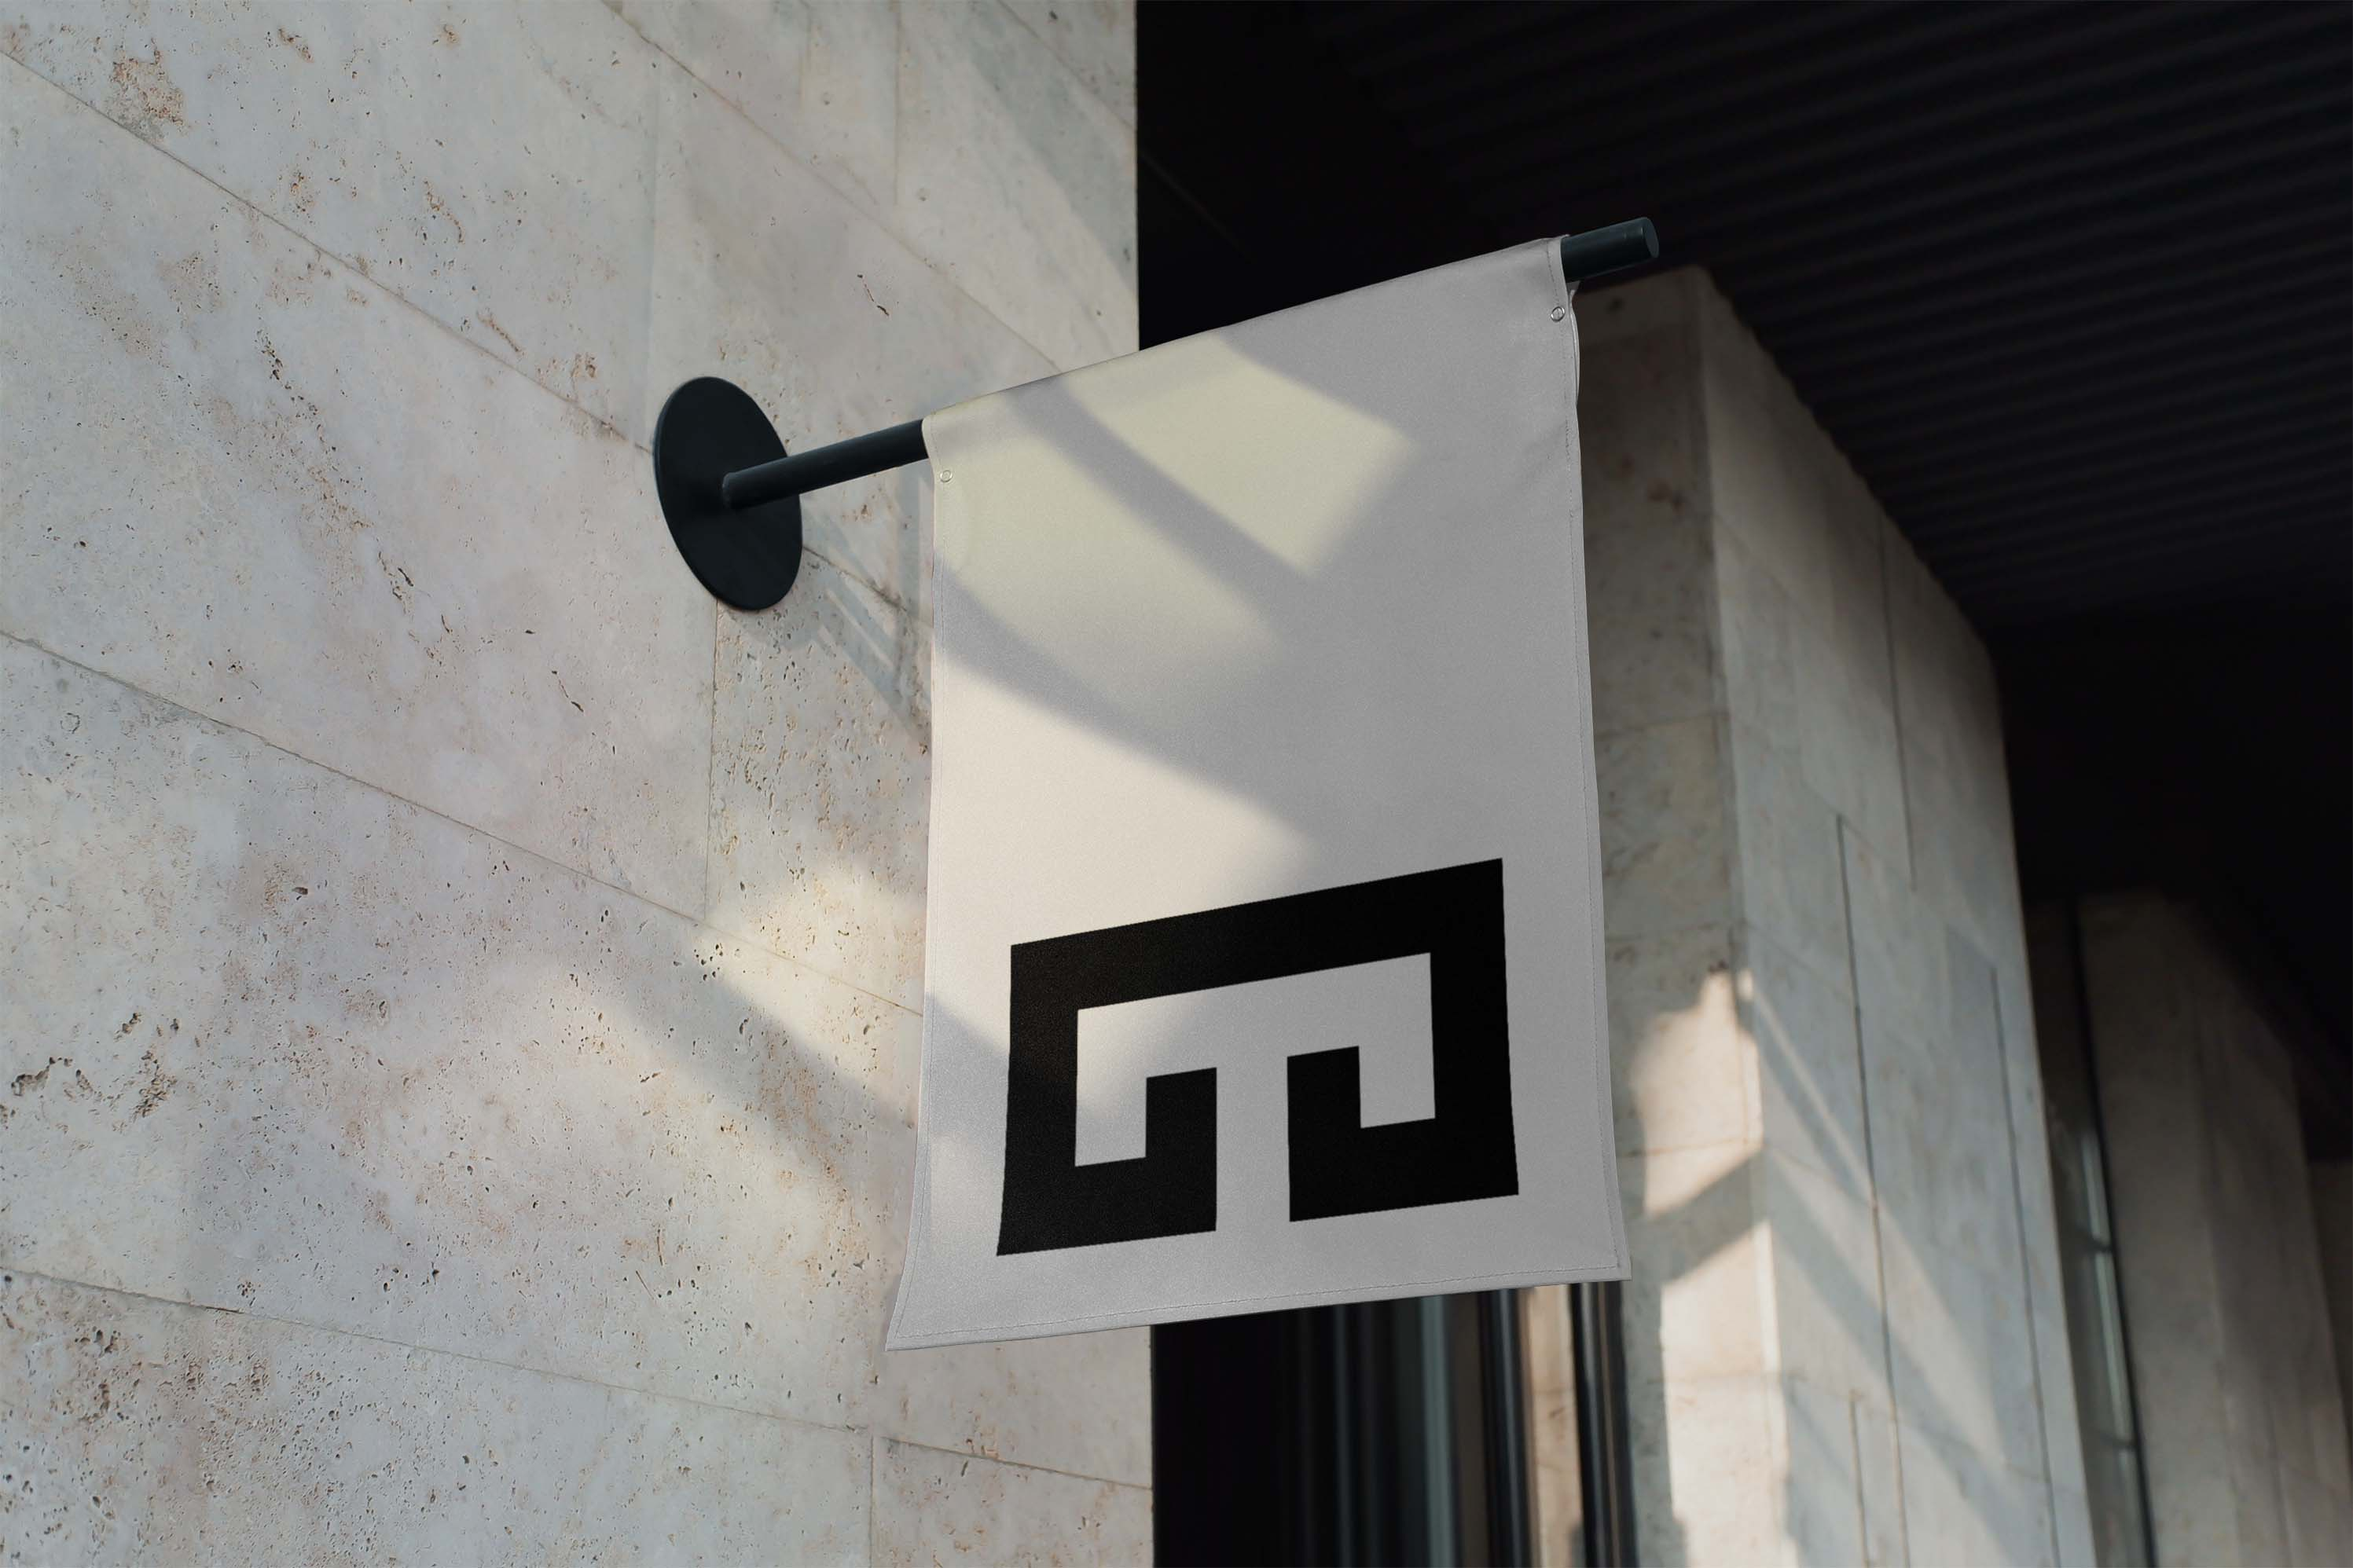
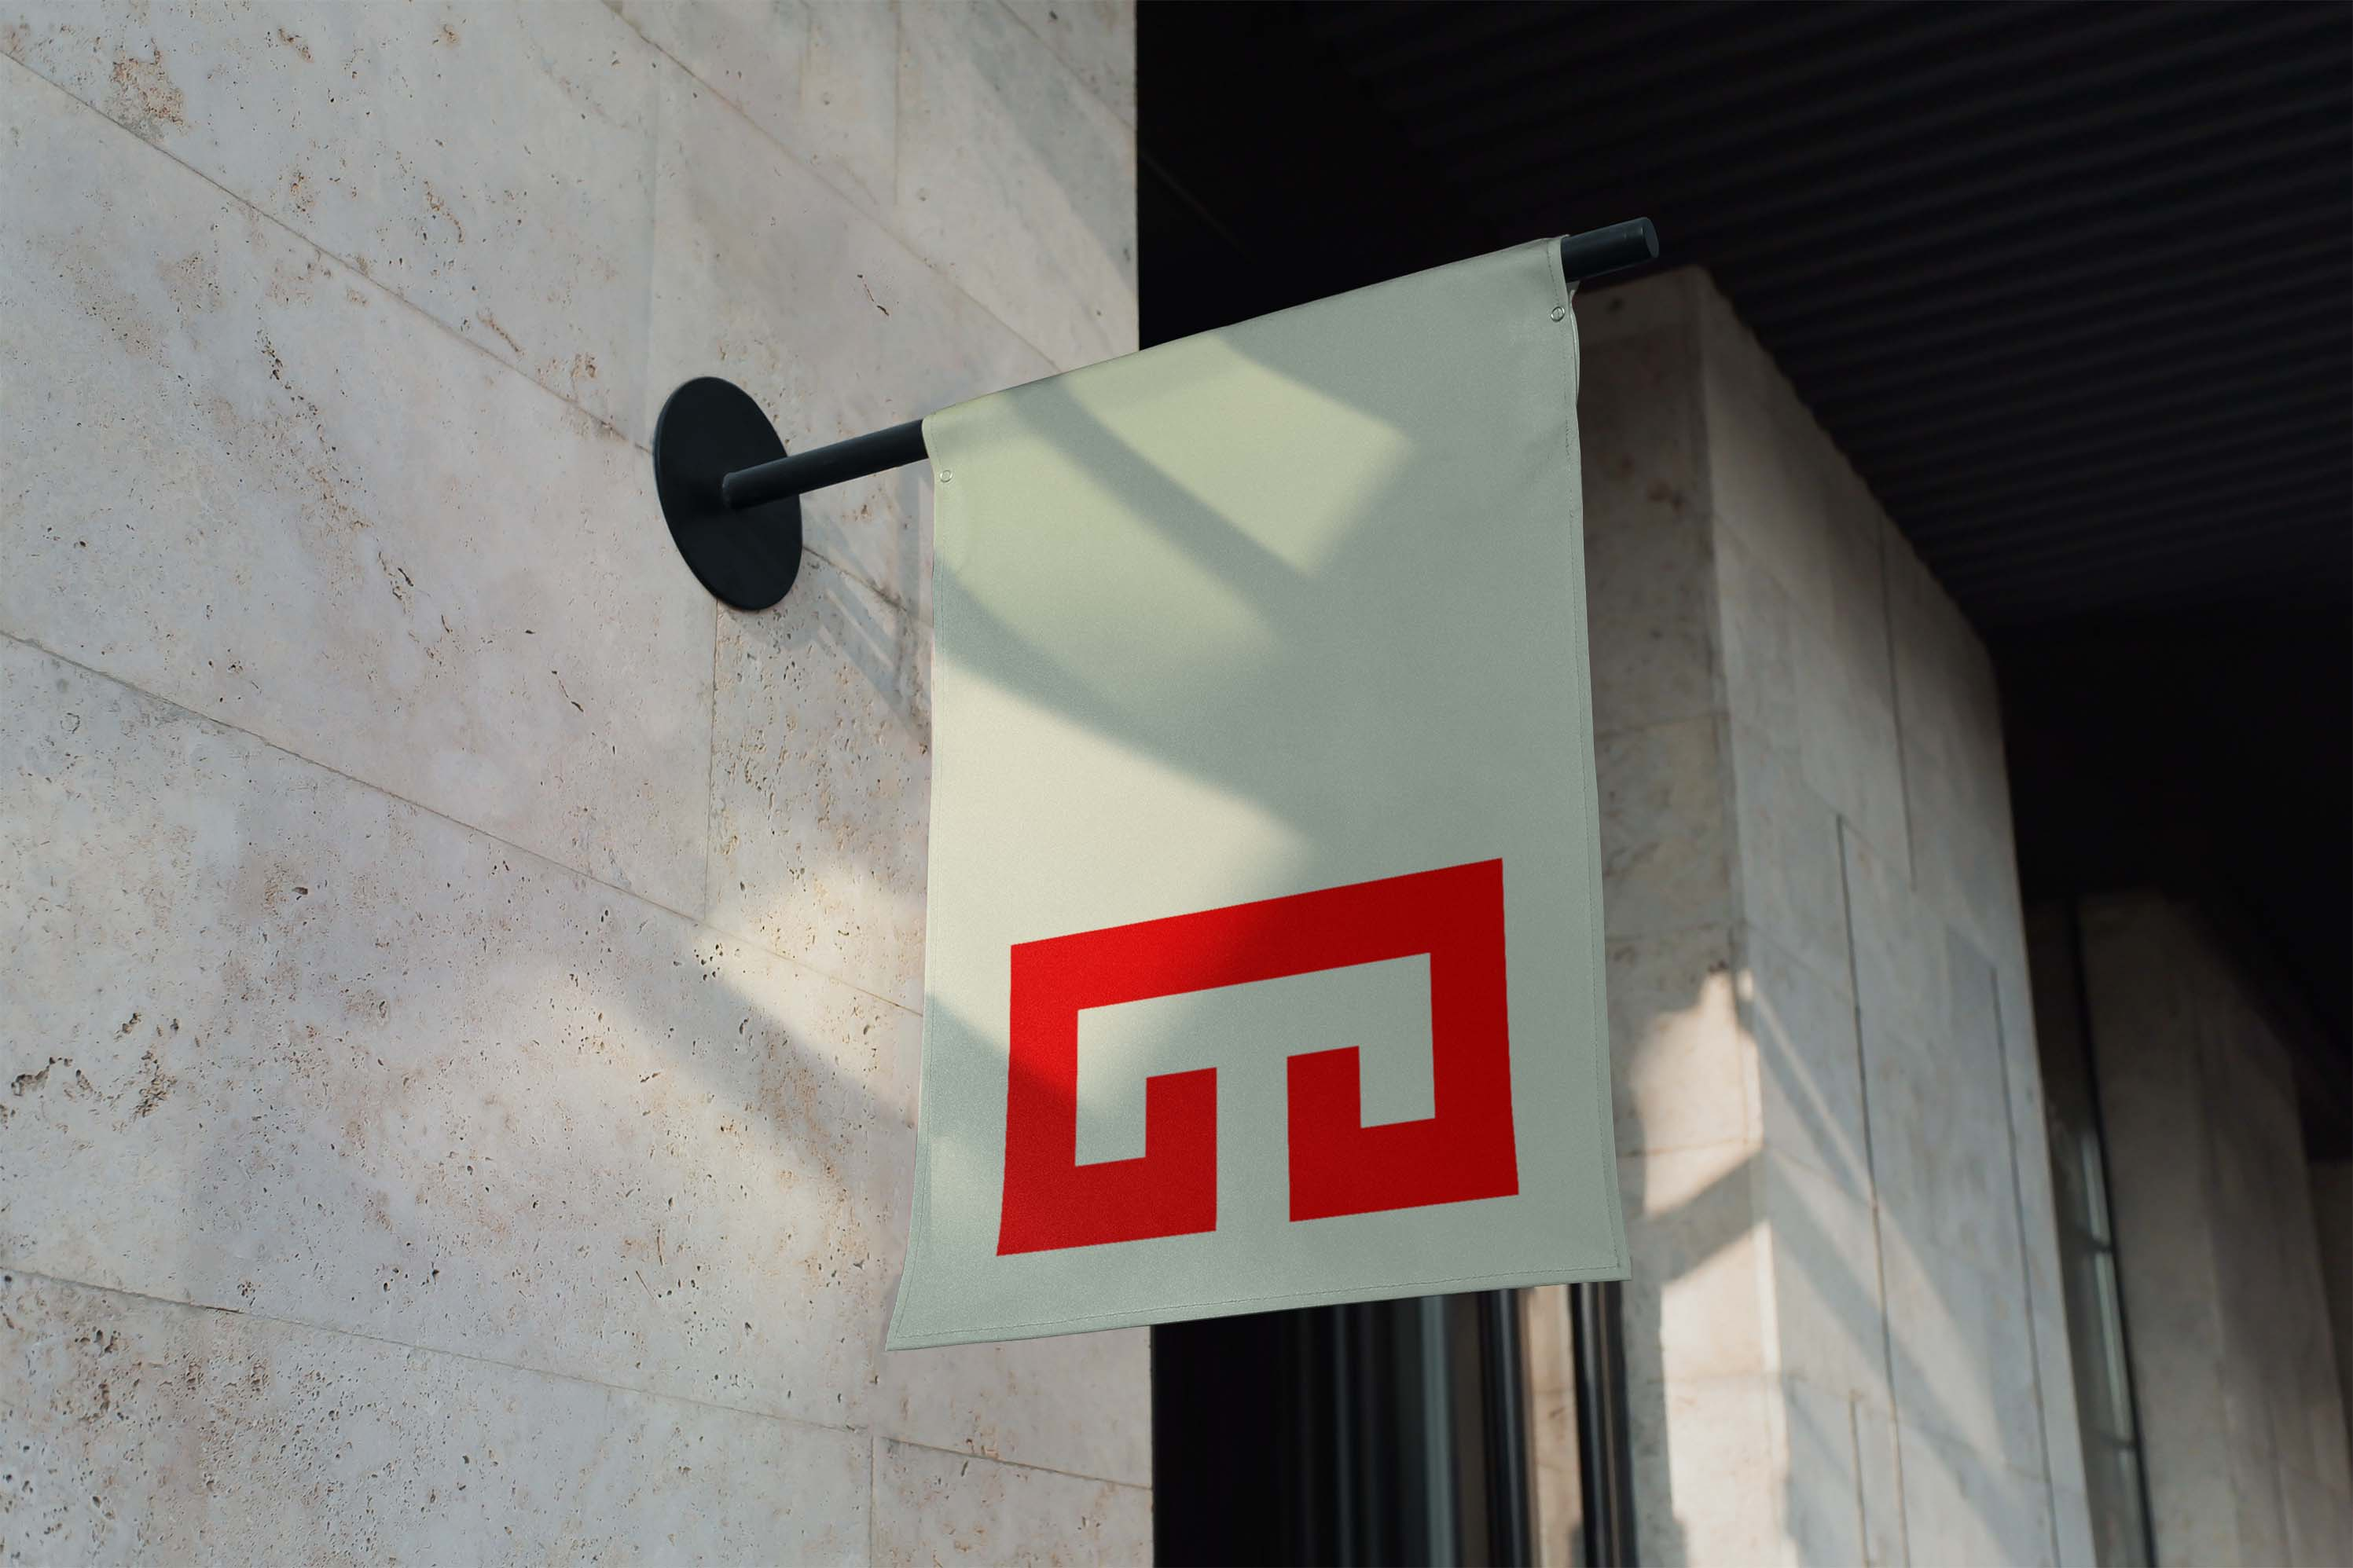
Continuing to edit and add to Gutenberg.

Changed region(s): [[0.4038, 0.5281, 0.6523, 0.8076]]

diff --git a/project/gutenberg.html b/project/gutenberg.html
@@ -3,7 +3,7 @@
 <html lang = "en">
     
     <head>
-        <title>GUTENBERG, WORK IN PROGRESS</title>
+        <title>WORK IN PROGRESS</title>
 
         <!-- Page Logo, Favicon -->
         <link rel = "stylesheet" type = "image/x-icon" href = "favicon.ico">
@@ -19,19 +19,25 @@
     <body>
         <main>
             <div class = "projectContainer">
-                <img src = "../assets/imgs/comm/Gutenberg/060924_wayfindingIndoorBanner_01.jpg" alt="" class = "wide">
-                <h4 class = "wide">Griot Book Club Banner</h4>
+                <img src = "../assets/imgs/comm/Gutenberg/060924_wayfindingOutdoorBanner_01.jpg" alt = "" class = "wide">
+                <img src = "../assets/imgs/comm/Gutenberg/060924_wayfindingIndoorBanner_01.jpg" alt = "" class = "wide">
+                <h4 class = "wide">Griot Book Club</h4>
 
-                <!-- <img src = "../assets/imgs/comm/Gutenberg/_logotypeTransformation.png" alt = "" class = "wide">
-                <h4 class = "wide">Logotype Transformation</h4> -->
+                <img src = "../assets/imgs/comm/Gutenberg/_logotypeTransformation.png" alt = "" class = "wide">
+                <img src = "../assets/imgs/comm/Gutenberg/_colors.png" alt = "">
+                <img src = "../assets/imgs/comm/Gutenberg/_primarySecondaryTypefaces.png" alt = "">
+                <h4 class = "wide">Identity Revolution</h4>
 
-                <img src = "../assets/imgs/comm/Gutenberg/060924_businessCards_IN_02.jpg" alt="" class = "wide">
-                <img src = "../assets/imgs/comm/Gutenberg/060924_businessCard+Postcard_01.jpg" alt="" class = "wide">
-                <img src = "../assets/imgs/comm/Gutenberg/060924_brandGuide_01.jpg" alt="" class = "wide">
-                <h4 class = "wide">Identity System Applications</h4>
+                <img src = "../assets/imgs/comm/Gutenberg/060924_businessCards_IN_02.jpg" alt = "" class = "wide">
+                <img src = "../assets/imgs/comm/Gutenberg/060924_businessCard+Postcard_01.jpg" alt = "" class = "wide">
+                <img src = "../assets/imgs/comm/Gutenberg/072324_GriotSquareInvitation-macro1.jpg" alt = "">
+                <img src = "../assets/imgs/comm/Gutenberg/072324_GriotSquareInvitation-macro2.jpg" alt = "">
+                <img src = "../assets/imgs/comm/Gutenberg/072324_GriotSquareInvitation.jpg" alt = "" class = "wide">
+                <h4 class = "wide">Letterhead Identity Application</h4>
 
-                <img src = "../assets/imgs/comm/Gutenberg/060924_appHomepageIcon_01.jpg" alt="" class = "wide">
-                <img src = "../assets/imgs/comm/Gutenberg/060924_hoodie_01.jpg" alt="" class = "wide">
+                <img src = "../assets/imgs/comm/Gutenberg/Monitor-Pro-Display-XDR-Mockup.jpg" alt = "" class = "wide">
+                <img src = "../assets/imgs/comm/Gutenberg/060924_appHomepageIcon_01.jpg" alt = "" class = "wide">
+                <img src = "../assets/imgs/comm/Gutenberg/060924_hoodie_01.jpg" alt = "" class = "wide">
                 <h4 class = "wide">Brand System Touchpoints</h4>
 
                 <div>&ensp;</div>
@@ -60,12 +66,12 @@
 
                     <h4>Approach</h4>
                     <p>
-                        Delving into the idealism encompassing Gutenberg, I was drawn in by the founder's commitment to proliferating eBooks as a means and an end. This principle became the foundation for the visual design system—using Redaction as the primary typeface, whose "weights" change its letterforms by reducing their resolution to represent time; which lead to the use of Century Gothic as the secondary typeface for its geometry and legeibility. Thereafter, the colors (variations of the familiar RGB), layout grid (using the logotype as a base), and graphic elements (playful proofreaders' marks).
+                        Delving into the idealism encompassing Gutenberg, I was drawn in by the founder's commitment to proliferating eBooks as a means and an end. This principle became the foundation for the visual design system—using geometry-first typefaces as the basis of the logotype is the individual pixel. The combination of digital and analogue became the motif driving the principle's visual expression. Using a primary typeface inspired by legal documents in tandem with a color palette  
                     </p><br>
                     
                     
                     <h4>Delivery</h4>
-                    <p>The result is C.</p>
+                    <p>The result is a cohesive design system spanning from the identity's building blocks across to individual brand activation and individual touchpoints. </p>
                 </section>
 
                 <footer>
